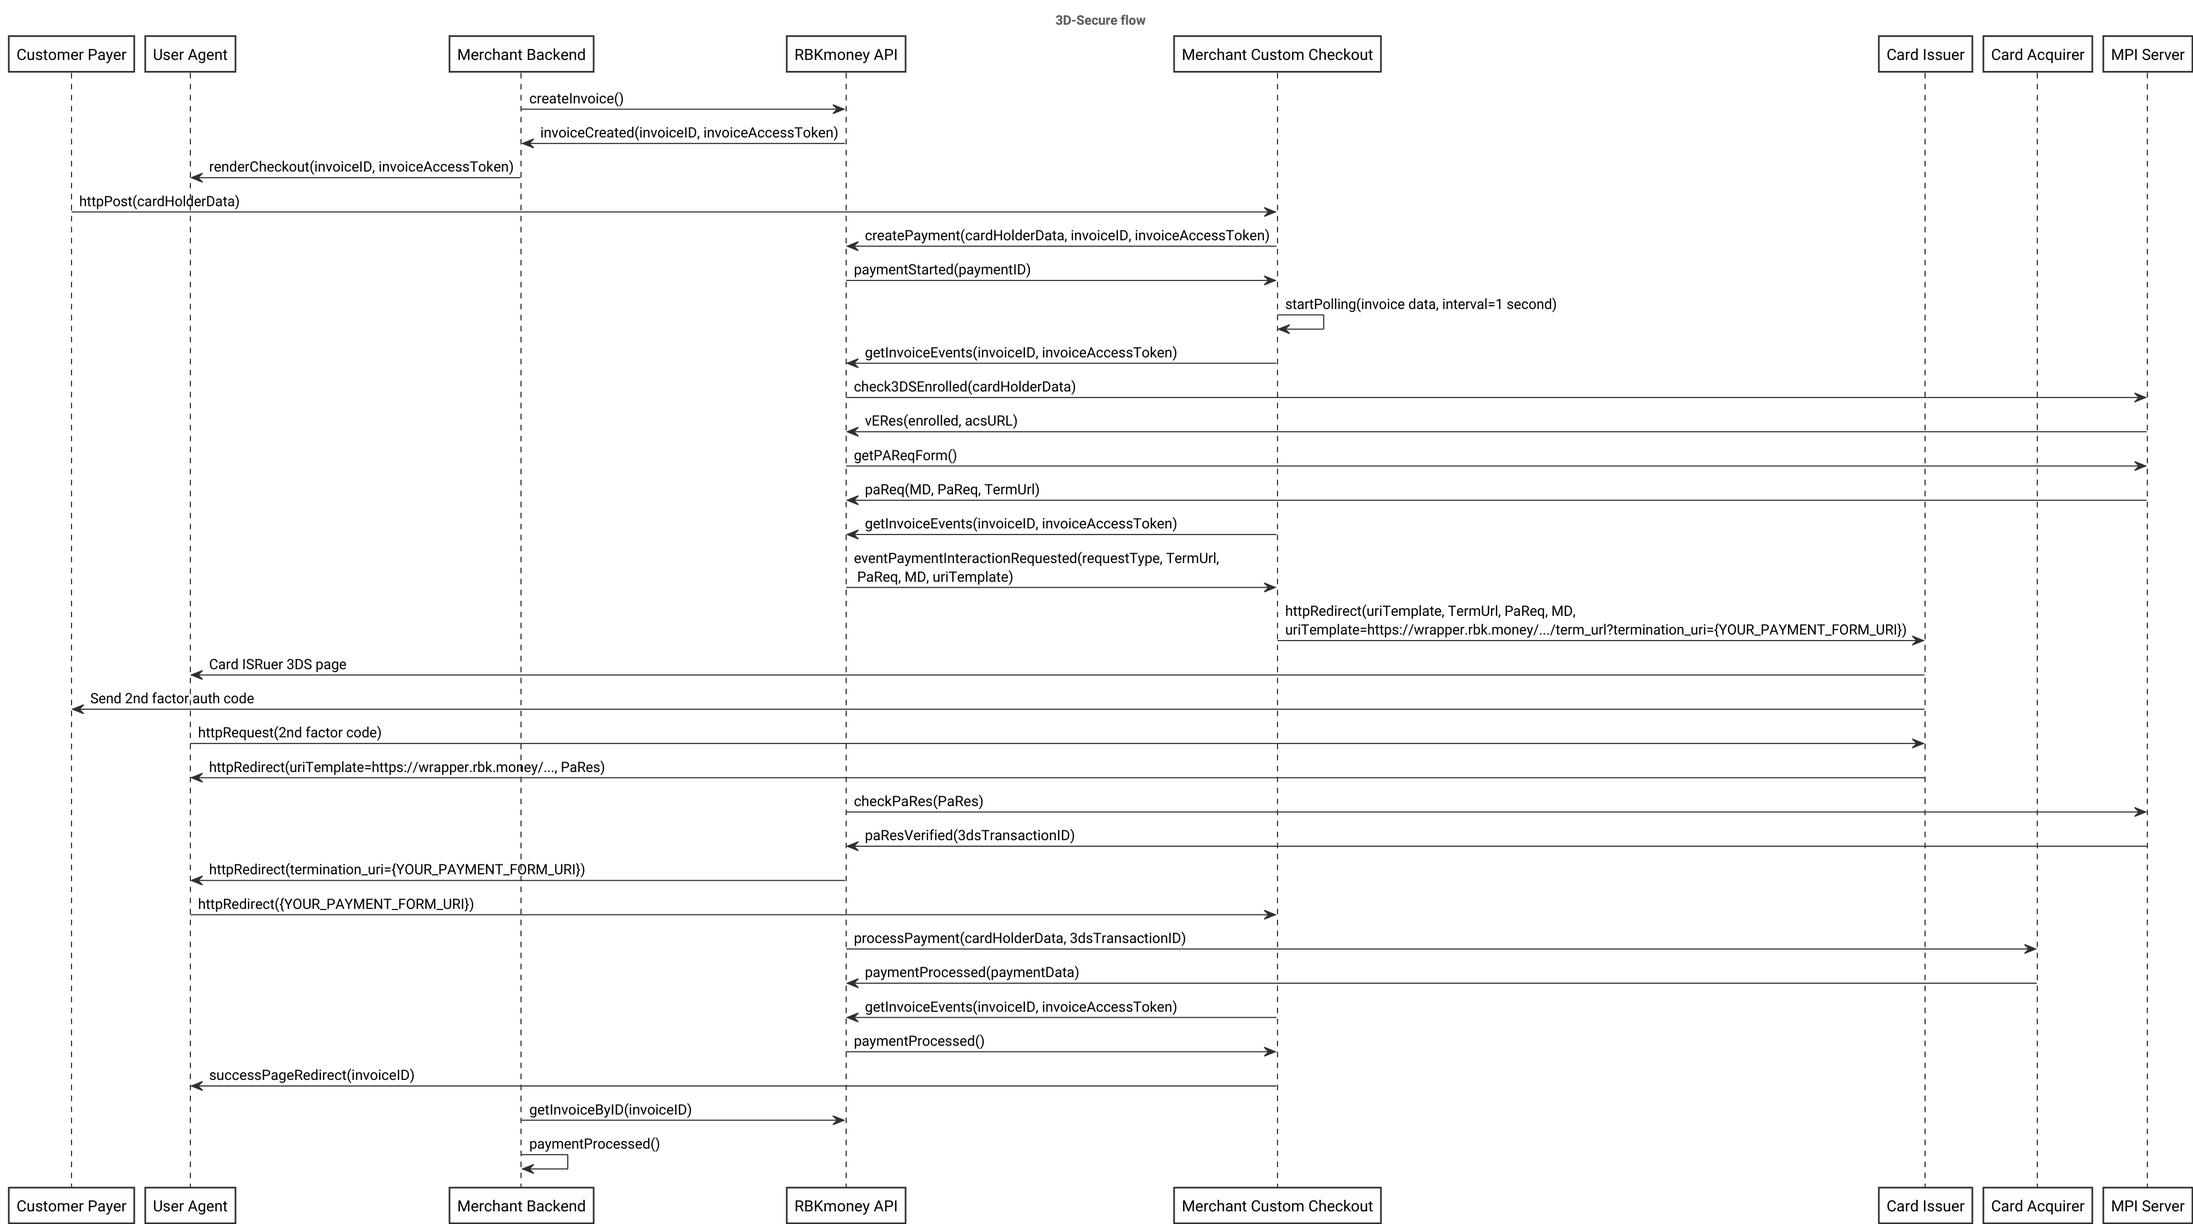
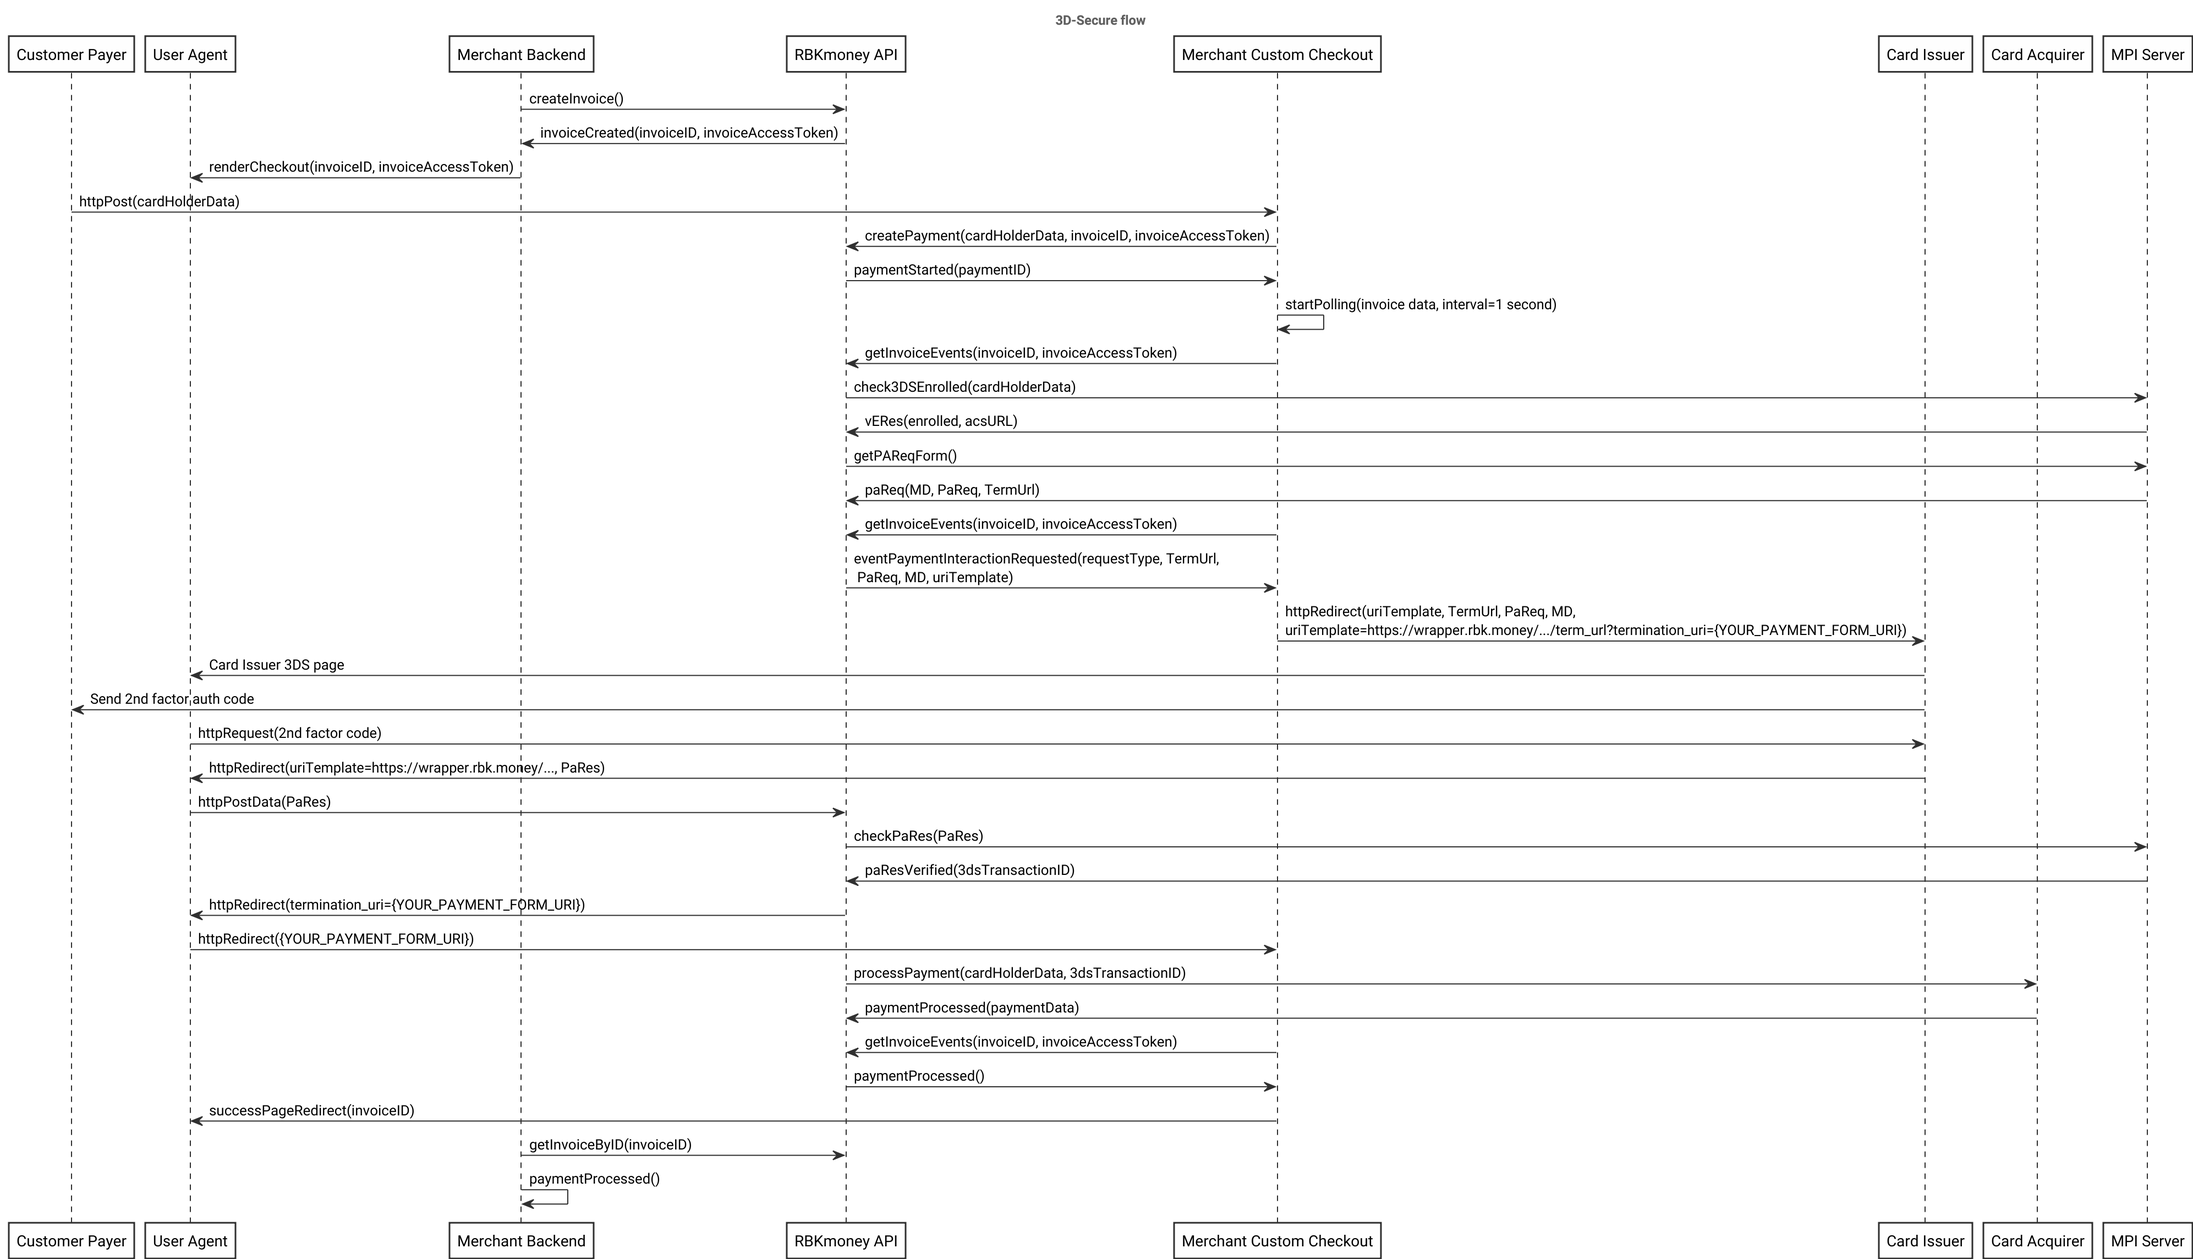
3DS article spellcheck and typo fix - modified some descriptions - fixed "ISRuer" typo - changed 3DS timeouts information

diff --git a/content/integrations/3dsecure.md b/content/integrations/3dsecure.md
@@ -1,9 +1,9 @@
-[3D-Secure](https://en.wikipedia.org/wiki/3-D_Secure) - это набор протоколов платежных систем, призванный улучшить безопасность приема платежей в интернете. Протокол подразумевает несколько переадресаций User Agent'а плательщика, ввод второго фактора аутентификации на странице банка-эмитента (как правило используется одноразовый SMS-код) и взаимодействие платежной системы с сервисами международных платежных систем (МПС).
+[3D-Secure](https://en.wikipedia.org/wiki/3-D_Secure) — это набор протоколов платежных систем, призванный улучшить безопасность приема платежей в интернете. Протокол подразумевает несколько переадресаций User Agent'а плательщика, ввод второго фактора аутентификации на странице банка-эмитента (зачастую используется одноразовый SMS-код) и взаимодействие платежной системы с сервисами международных платежных систем (МПС).
 
 Если вы реализуете собственную кастомную платежную форму, используя библиотеку [tokenizer.js](/integrations/tokenizer/) либо подключаетесь как платежная платформа, обрабатывая карточные данные напрямую, вам необходимо будет самостоятельно реализовать процесс прохождения 3D-Secure. 
 
 !!! note
-    Данная технология также обязательна к реализации если вы хотите принимать карты Maestro, даже в том случае, если вам подключен без-3DS терминал. По-умолчанию все подключения к RBKmoney работают только через 3DS-терминалы. Получить без-3DS терминал можно обратившись к вашему курирующему менеджеру.
+    Данная технология также обязательна к реализации если вы хотите принимать карты Maestro, даже в том случае, если вам подключен без-3DS терминал. По-умолчанию все подключения к RBKmoney работают только через 3DS-терминалы. Получить без-3DS терминал можно по отдельному запросу.
 
 ## Кастомная платежная форма и 3DS
 
@@ -25,34 +25,35 @@
 ### Подробное описание сценария
 
 1. Используя ваш приватный API-ключ с вашего бэкенда создаем в RBKmoney инвойс вызывая метод [createInvoice](https://rbkmoney.github.io/api/#operation/createInvoice) и получаем в ответ идентификатор инвойса и токен доступа к нему - `invoiceAccessToken`.
-2. С вашего бэкенда формируем HTML-код, передав туда полученный идентификатор инвойса и токен доступа и отдаем его в браузер плательщику.
-    - *Внимание! Ни в коем случае не передавайте в браузер ваш приватный API-ключ! Используйте только полученный invoiceAccessToken.*
-3. В коде вашей платежной формы
+2. С вашего бэкенда формируем HTML-код, передаем туда полученный идентификатор и токен доступа инвойса и отдаем этот код в браузер плательщику.
+    - *Внимание! Ни в коем случае не передавайте в браузер ваш приватный API-ключ! Используйте только полученный `invoiceAccessToken`.*
+3. В коде вашей платежной формы:
     - если у вас нет сертификации PCI-DSS, то подключаем библиотеку tokenizer.js [согласно инструкции](/integrations/tokenizer/) и получаем платежный токен через библиотеку;
     - если у вас есть сертификация PCI-DSS, то передаем карточные данные напрямую вызывая метод [createPaymentResource](https://rbkmoney.github.io/api/#operation/createPaymentResource) и также получаем платежный токен.
 4. Из кода вашей платежной формы запускаем процесс списания денег с карты плательщика вызывая метод [createPayment](https://rbkmoney.github.io/api/#operation/createPayment).
 5. Запускаем таймер и начинаем опрашивать RBKmoney API на предмет появления новых событий в инвойсе вызывая метод [getInvoiceEvents](https://rbkmoney.github.io/api/#operation/getInvoiceEvents).
-    - *мы рекомендуем установить интервал опроса в 1 секунду и ограничение на время опроса в 60 секунд либо 60 запросов.*
+    - *мы рекомендуем установить интервал опроса в 1 секунду и ограничение на время опроса в 60-120 секунд либо 60-120 запросов.*
 6. В это время Платформа RBKmoney
     - проверяет вовлеченность карты в 3D-Secure, и в случае положительного ответа от международных платежных систем, получает необходимые для запуска 3D-Secure данные;
-    - добавляет полученные данные в виде инструкции для платежной формы в виде события в инвойсе;
+    - добавляет полученные данные в виде инструкции для платежной формы в событие инвойса;
     - *набор данных описан в документации метода [getInvoiceEvents](https://rbkmoney.github.io/api/#operation/getInvoiceEvents) и доступен к просмотру если развернуть Response Schema по пути*
     ```
         changes - PaymentInteractionRequested - userInteraction -  interactionType - Redirect.
     ```
-    - тип редиректа HTTP GET/POST Платформа указывает в инструкции requestType, шаблон заполнения - в структуре request, а URL, на который необходимо переадресовать браузер плательщика - в uriTemplate.
+    - тип переадресации GET/POST Платформа указывает в инструкции `requestType`, шаблон заполнения - в структуре `request`, а URL, на который необходимо переадресовать браузер плательщика - в `uriTemplate`.
 7. Формируем пакет данных для корректной переадресации и переадресовываем браузер плательщика на страницу банка-эмитента (описание набора данных приведено в следующей главе).
 8. Плательщик на странице банка-эмитента
     - вводит 2 фактор аутентификации и подтверждает его;
     - либо вводит код неверно, либо нажимает ссылку "Отменить оплату";
-    - банк формирует ответ и переадресовывает браузер плательщика на URL обработчика RBKmoney указанный в TermUrl.
+    - банк формирует ответ и переадресовывает браузер плательщика на URL обработчика RBKmoney указанный в `TermUrl`.
 9. Платформа RBKmoney в это время
-    - переадресовывает браузер плательщика на указанный в параметре termination_uri URI-адрес вашей платежной формы;
+    - переадресовывает браузер плательщика на указанный в параметре `termination_uri` URI-адрес вашей платежной формы;
+    - *Обратите внимание! URL возврата нужно передавать в URL-encoded формате вида `https%3A%2F%2Fyour.host.address%2Furi`!*
     - отправляет полученный от банка в параметрах запроса ответ в МПС и проверяет его валидность;
     - в случае неуспешной проверки результата 3DS добавляет событие "платеж неуспешен" в инвойс;
     - в случае успешной проверки запускает процесс проведения платежа и списания средств с карты плательщика;
     - по результатам проведения платежа меняет его статус и добавляет об этом событие в инвойс;
-    - в том случае, если за 120 секунд переадресация с сайта банка не была произведена (плательщик отказался от оплаты, не смог найти код 3DS, у плательщика пропал интернет и т.п.) переводит платеж в неуспешное состояние и добавляет об этом запись в события инвойса.
+    - в том случае, если за определенный период (*на момент написания этой версии документа - 5 минут*) переадресация с сайта банка не была произведена (плательщик отказался от оплаты, не смог найти код 3DS, у плательщика пропал интернет и т.п.) переводит платеж в неуспешное состояние и добавляет об этом запись в события инвойса.
 10. Ваша платежная форма продолжает опрашивать систему и ожидать события о результате платежа.
     - обрабатывает заложенный вами бизнес-процесс успешного/неуспешного платежа;
     - уведомляет ваш бэкенд о необходимости проверки состояния платежа и принятия решения об отгрузке товара/предоставлении услуги.
